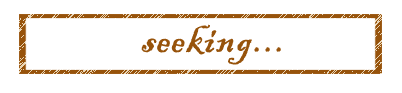
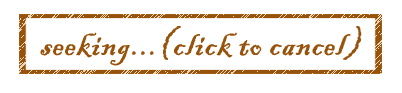
asakuras fix bug

Changed region(s): [[0.0896, 0.2581, 0.9254, 0.7097]]

diff --git a/js/seek.js b/js/seek.js
@@ -1,19 +1,35 @@
 window.onload=function(){
     let seek_player=document.getElementById('seek_player');
+    let isseeking = false;
     let acceptOthers=document.getElementById('invitation-table').querySelectorAll('ul a');
+    let link_memory =new Array();
+
     for(let i=0;i<acceptOthers.length;i++){
         acceptOthers[i].onclick=selectone;
     }
-
+    console.log(link_memory);
     seek_player.onclick=function () {
-        seek_player.setAttribute("src","img/seeking.png");
-        ajaxRequest('match/joininwait.php','post',{},
-            function () {
-                console.log("join in table");
-                tellstart();
-            },function () {
-                console.log('fail to join in table');
-            });
+        if(isseeking == false){
+            seek_player.setAttribute("src","img/seeking.png");
+            for(let i=0;i<acceptOthers.length;i++){
+                acceptOthers[i].onclick=null;
+                acceptOthers[i].style.color="grey";
+            }
+            isseeking = true
+            ajaxRequest('match/joininwait.php','post',{},
+                function () {
+                    console.log("join in table");
+                    tellstart();
+                },function () {
+                    console.log('fail to join in table');
+                });
+        }
+        else{
+            isseeking = false;
+
+            window.location.href = "cancelwait.php";
+        }
+        
     };
 
     function selectone() {

diff --git a/matching_player.php b/matching_player.php
@@ -6,6 +6,9 @@
     if(isset($_GET['size'])){
         $_SESSION['size'] = $_GET['size'];
     }
+    $role_img = $_SESSION['user_icon'];
+    $username = $_SESSION['username'];
+$role = $_SESSION['role'];
     $size = $_SESSION['size'];
     $rows = returnWaitList();
     $cnt = count($rows);
@@ -38,11 +41,20 @@
 </head>
 <body>
 <div id="bg-seek" class="container">
+<div id="name_card">
+    
+    <img class="name_card" src="img/name_card.png" alt="name_card">
+    <img id="user-info" src=<?=$role_img?> alt=<?=$role?>>
+    <p id="username"><?=$username?></p>
+    <p id="role"><?=$role?></p>
+    <span><a href="user_info.php?current_page=1" id="view_detail">view detail</a> <a href="dosignout.php" id="sign_out">sign out</a><span>
+    
+</div>  
     <div id="invitation-table">
         <ul>
         <?php  for ($i = ($current_page - 1) * $max_entry; $i  < $current_page  * $max_entry && $i < $cnt; $i++){
                 $row = $rows[$i]; ?>
-            <li> <?= $row['info'] ?><div><a userid=<?= $row['userid'] ?>>accept</a></div></li>
+            <li> <?= $row['info'] ?><div class="invite_link"><a userid=<?= $row['userid'] ?>>accept</a></div></li>
         <?php } ?>
           
     </ul>

diff --git a/choose_size.php b/choose_size.php
@@ -2,6 +2,8 @@
     include("include/util.inc.php");
     session_start();
     checkLegal();
+    $role_img = $_SESSION['user_icon'];
+    $username = $_SESSION['username'];
 $role = $_SESSION['role'];
 if(isset($_GET['mode'])){
 $_SESSION['mode'] = $_GET['mode'];
@@ -24,6 +26,15 @@ $link = array('matching_player.php?size=10&current_page=1','matching_player.php?
 </head>
 <body>
 <div id="bg-choosesize" class="container">
+<div id="name_card">
+    
+    <img class="name_card" src="img/name_card.png" alt="name_card">
+    <img id="user-info" src=<?=$role_img?> alt=<?=$role?>>
+    <p id="username"><?=$username?></p>
+    <p id="role"><?=$role?></p>
+    <span><a href="user_info.php?current_page=1" id="view_detail">view detail</a> <a href="dosignout.php" id="sign_out">sign out</a><span>
+    
+</div>  
         <a href=<?=$link[0]?>><img class="two_box_top" src="img/10x10.png" alt="10x10"></a>
         <br>
         <a href=<?=$link[1]?>><img class="two_box_bottom" src="img/7x7.png" alt="7x7"></a>

diff --git a/match/returnwaitlist.php b/match/returnwaitlist.php
@@ -3,10 +3,11 @@
 
     //返回等待列表
     function returnWaitList(){
+        global $PDO, $GAME_TABLE;
         $fieldsize = $_SESSION['size'];
         $fieldsizeforsql = $PDO->quote($fieldsize);
 
-        global $PDO, $GAME_TABLE;
+        
         $rows = $PDO->query("SELECT * FROM $GAME_TABLE WHERE ismatch=0 AND fieldsize=$fieldsizeforsql");
         $rets = array();
         foreach($rows as $row){

diff --git a/cancelwait.php b/cancelwait.php
@@ -1,0 +1,11 @@
+<?php
+    session_start();
+    include("include/util.inc.php");
+    checkLegal();
+    $userid = $_SESSION['userid'];
+    $size = $_SESSION['size'];
+    $userid = $PDO->quote($userid);
+    $fieldsizeforsql = $PDO->quote($fieldsize);
+    $PDO->exec("DELETE FROM $GAME_TABLE WHERE user1=$userid");
+    header("Location: matching_player.php?size=$size&current_page=1");
+?>
